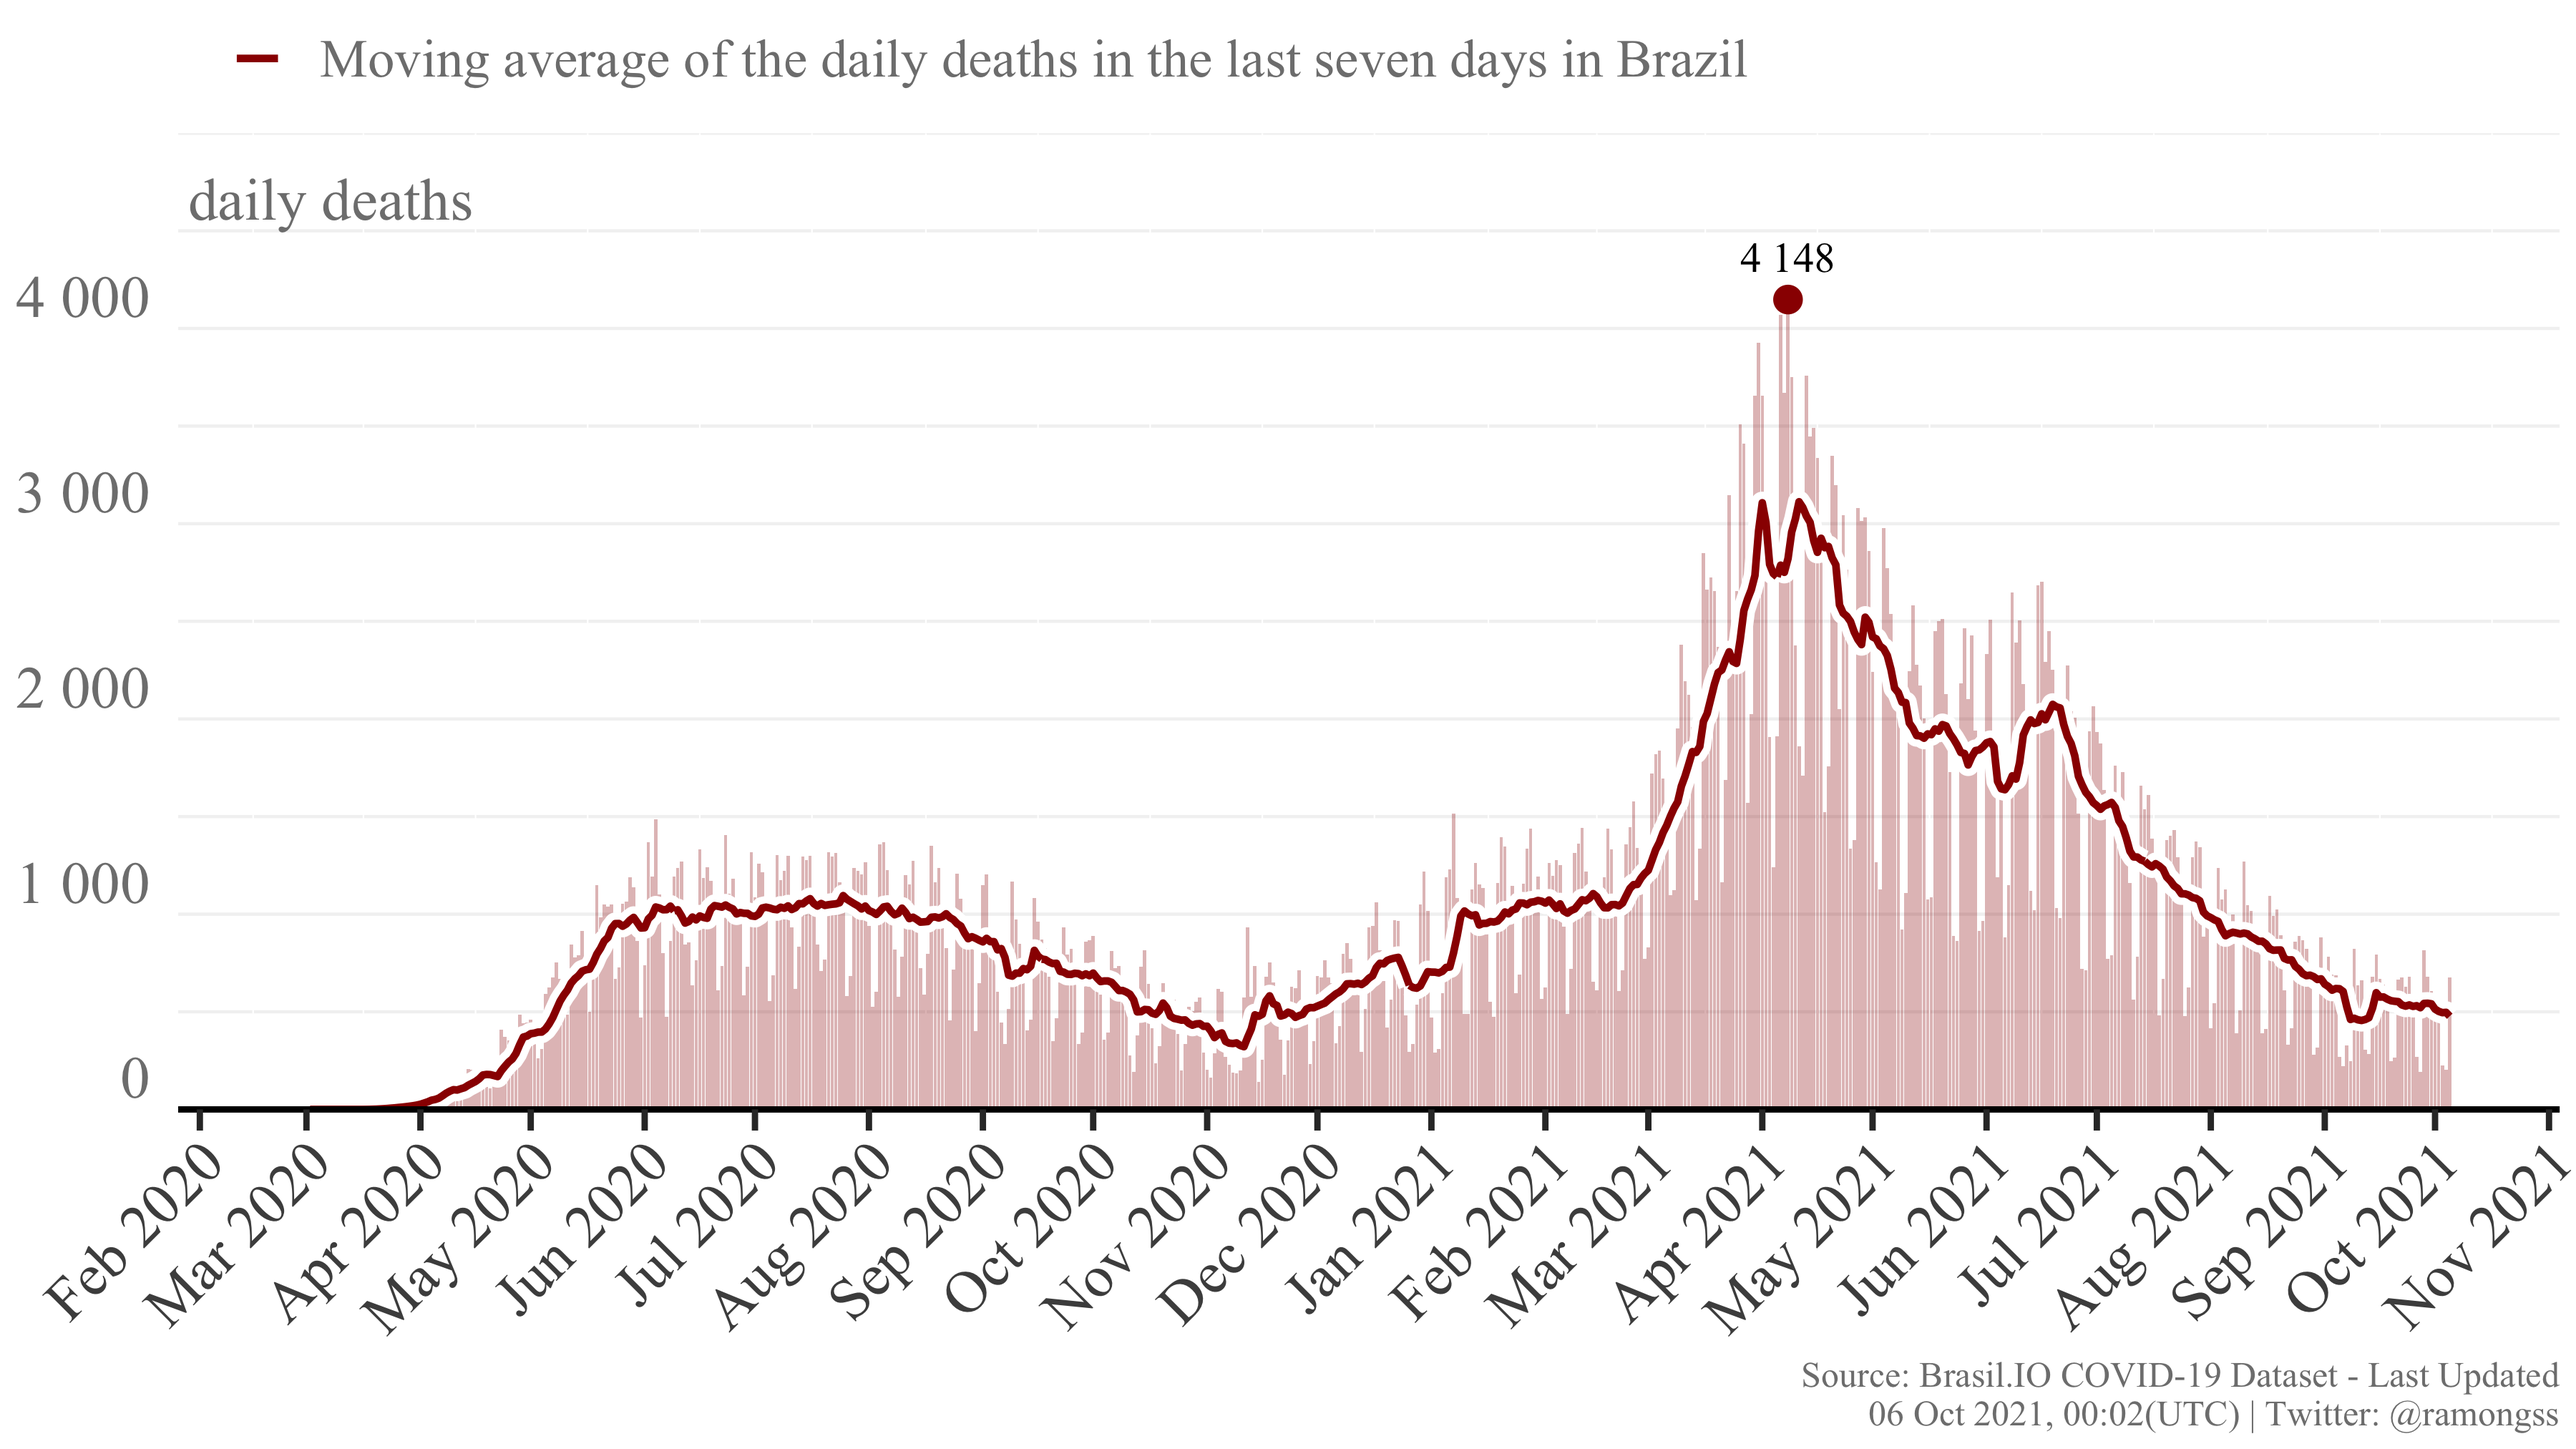
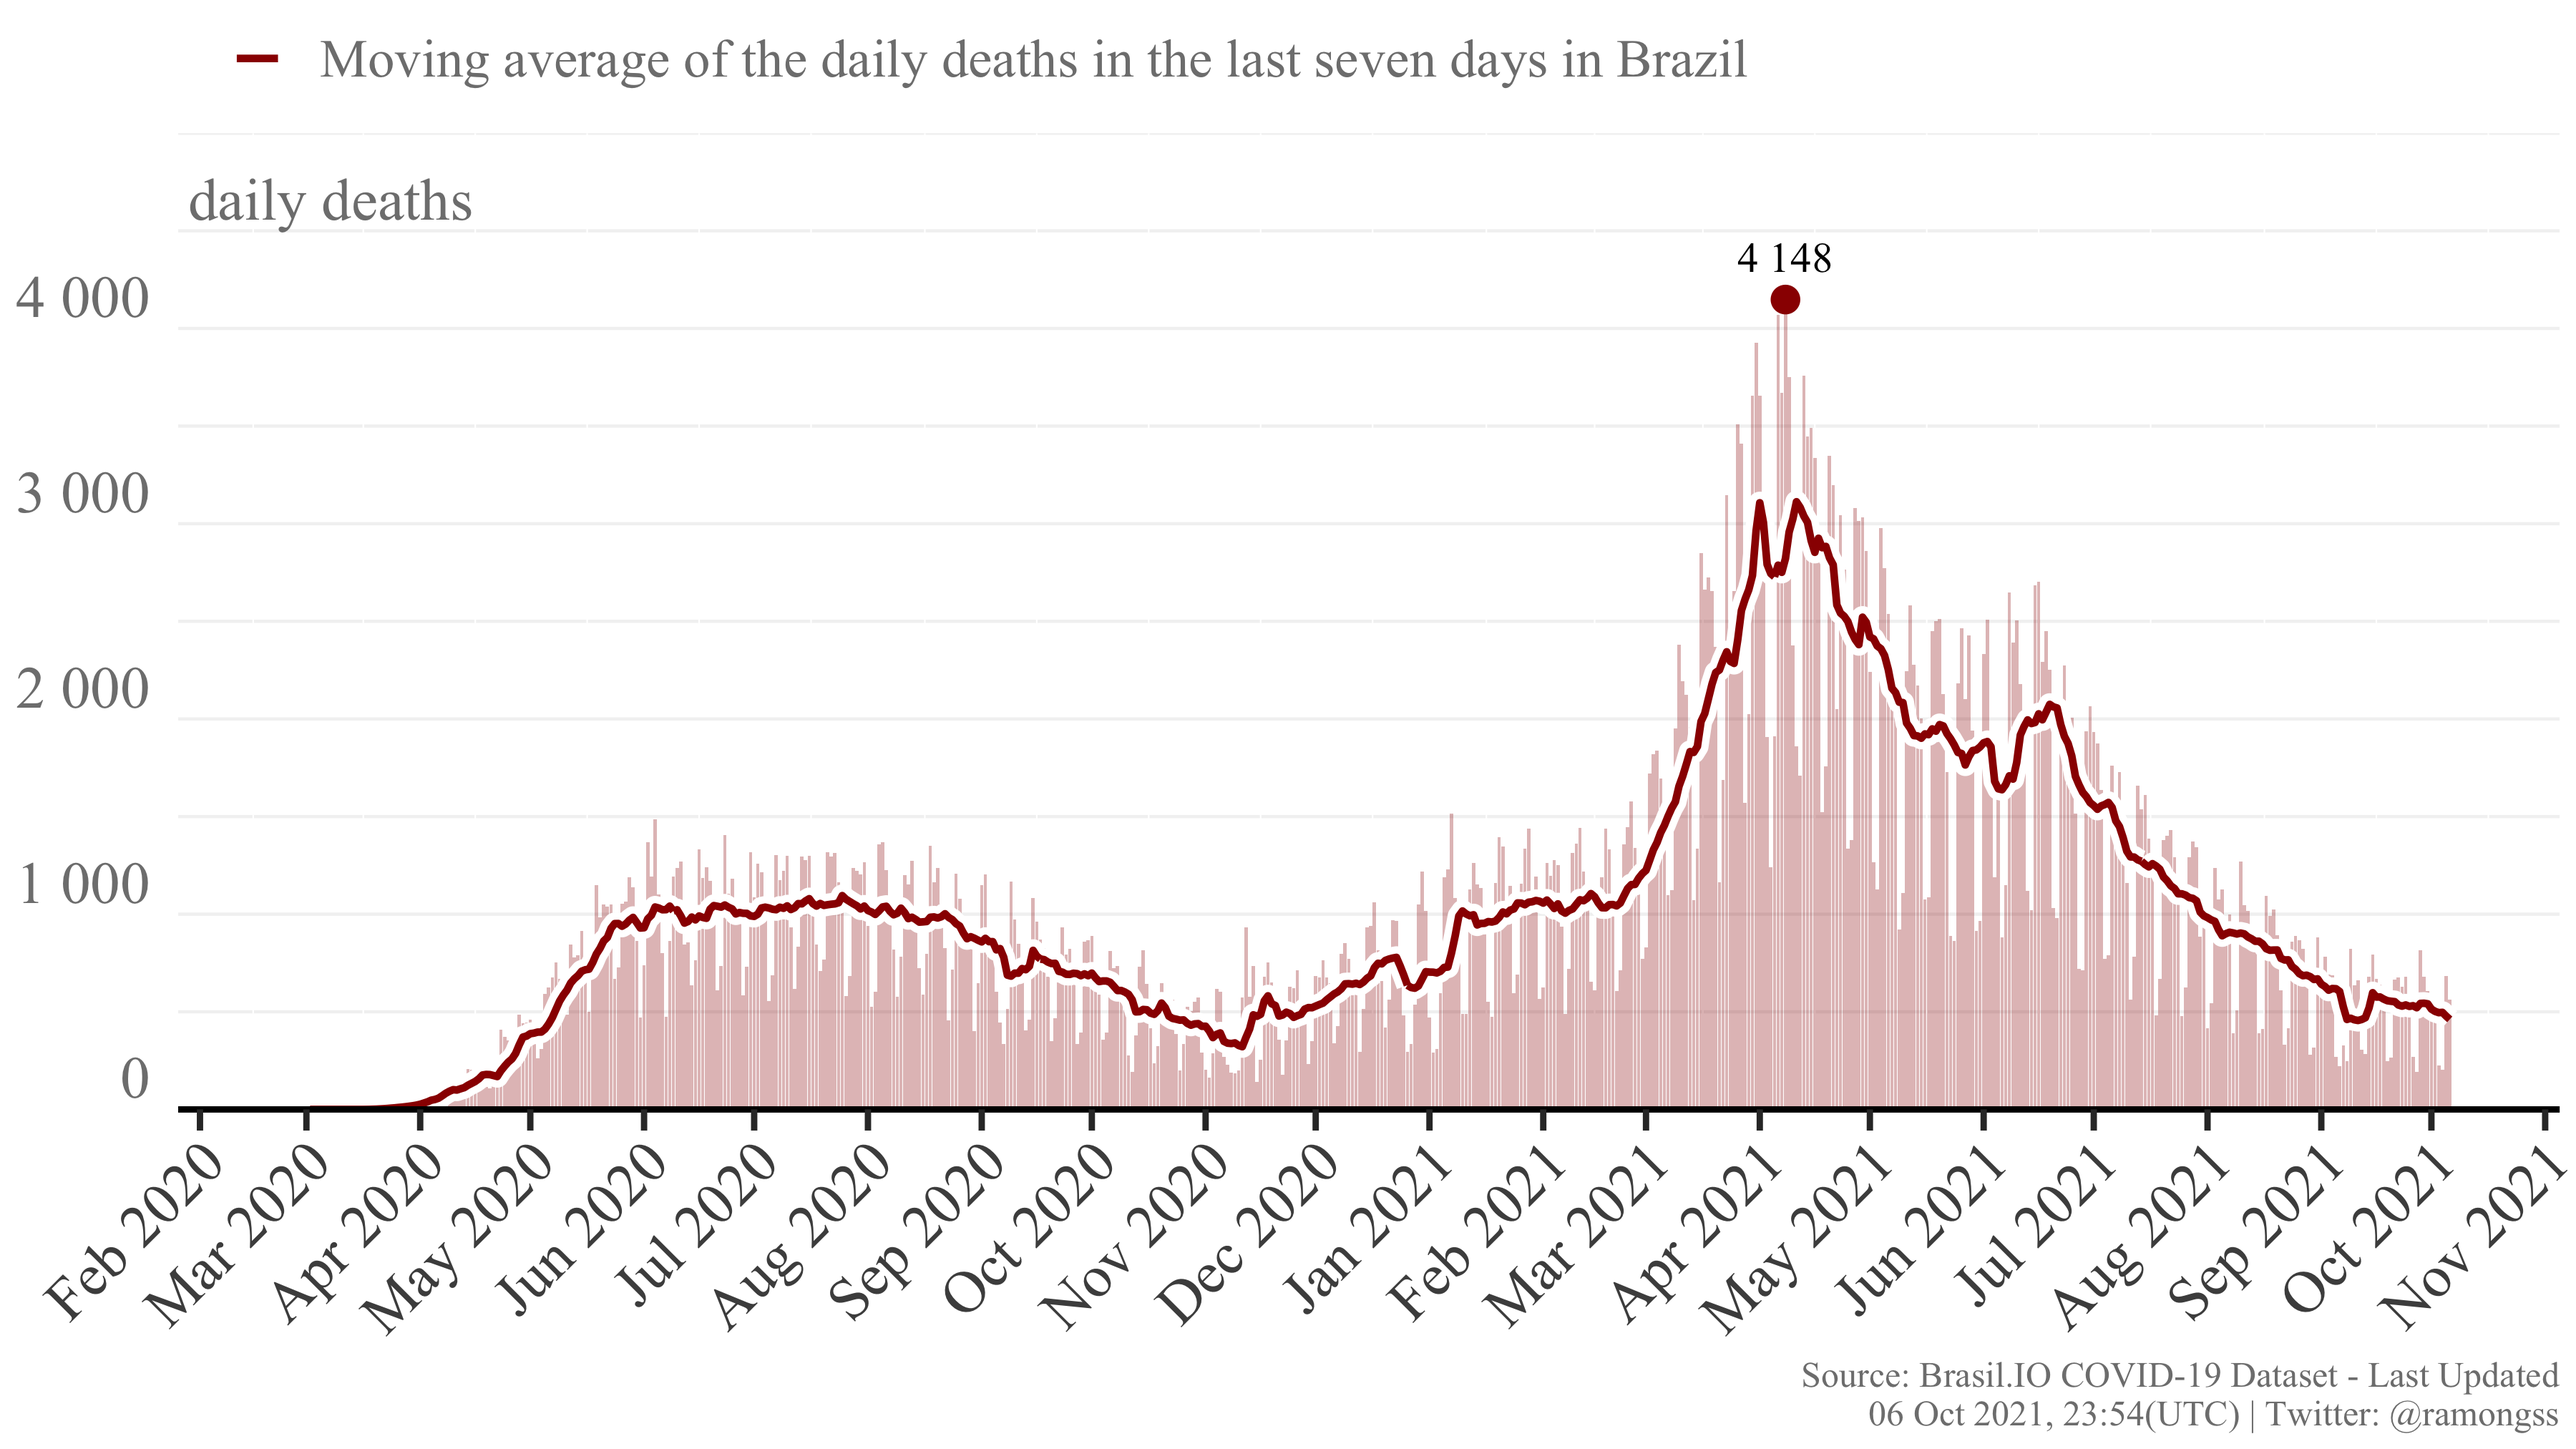
Re-build README.Rmd

diff --git a/README.md b/README.md
@@ -27,8 +27,8 @@ download_brasilio_table <- function(dataset = "covid19", table_name){
 
 ## COVID-19 Confirmed cases
 
-Currently, Brazil has a total of **21,505,142** confirmed cases at **05
-Oct, 2021**, with **21,661** new confirmed cases. The daily maximum
+Currently, Brazil has a total of **21,523,787** confirmed cases at **06
+Oct, 2021**, with **18,161** new confirmed cases. The daily maximum
 incidence was **124,878** confirmed cases at **18 Sep, 2021**. Here
 follows the Figure showing the confirmed case incidence as the bars, and
 the line as the moving average of the last 7 days.
@@ -37,8 +37,8 @@ the line as the moving average of the last 7 days.
 
 ## COVID-19 Deaths
 
-Currently, Brazil has a total of **599,083** deaths at **05 Oct, 2021**,
-with **677** new deaths. The daily maximum deaths incidence was
+Currently, Brazil has a total of **599,651** deaths at **06 Oct, 2021**,
+with **561** new deaths. The daily maximum deaths incidence was
 **4,148** deaths at **08 Apr, 2021**. Here follows the Figure showing
 the deaths incidence as the bars, and the line as the moving average of
 the last 7 days.
@@ -49,4 +49,4 @@ the last 7 days.
 
 This page is daily updated automatically using Github Actions.
 
-*Last update: 06 Oct 2021, 00:02 (UTC).*
+*Last update: 06 Oct 2021, 23:54 (UTC).*
